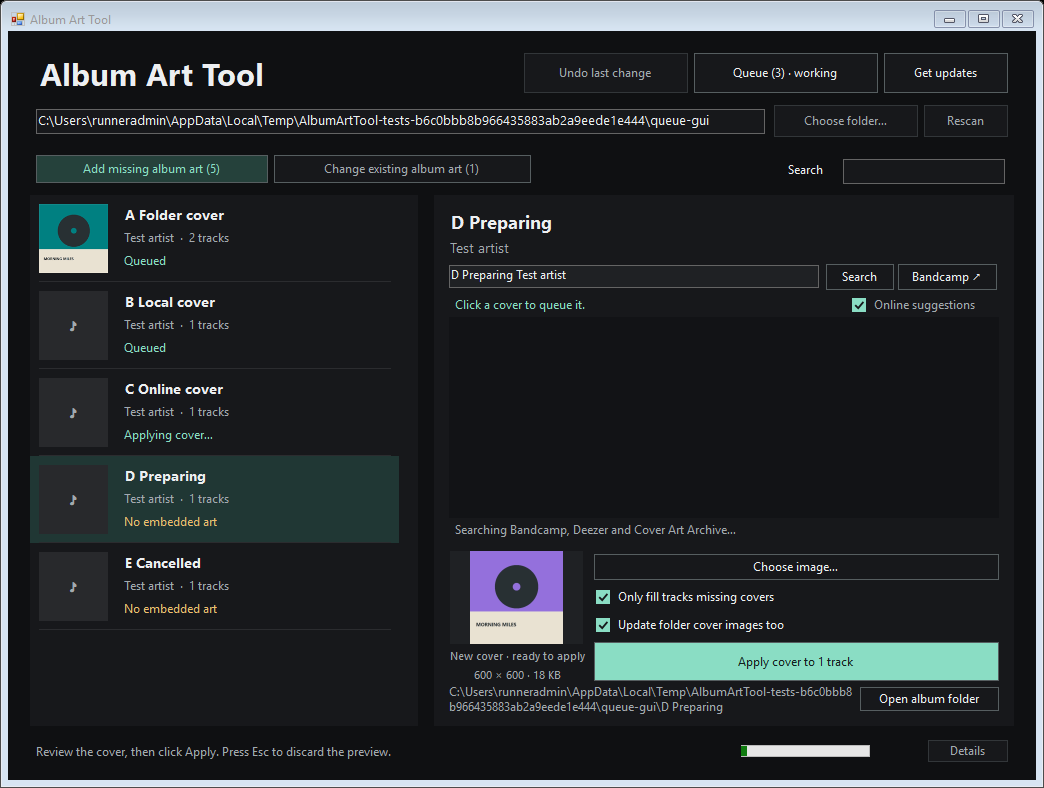
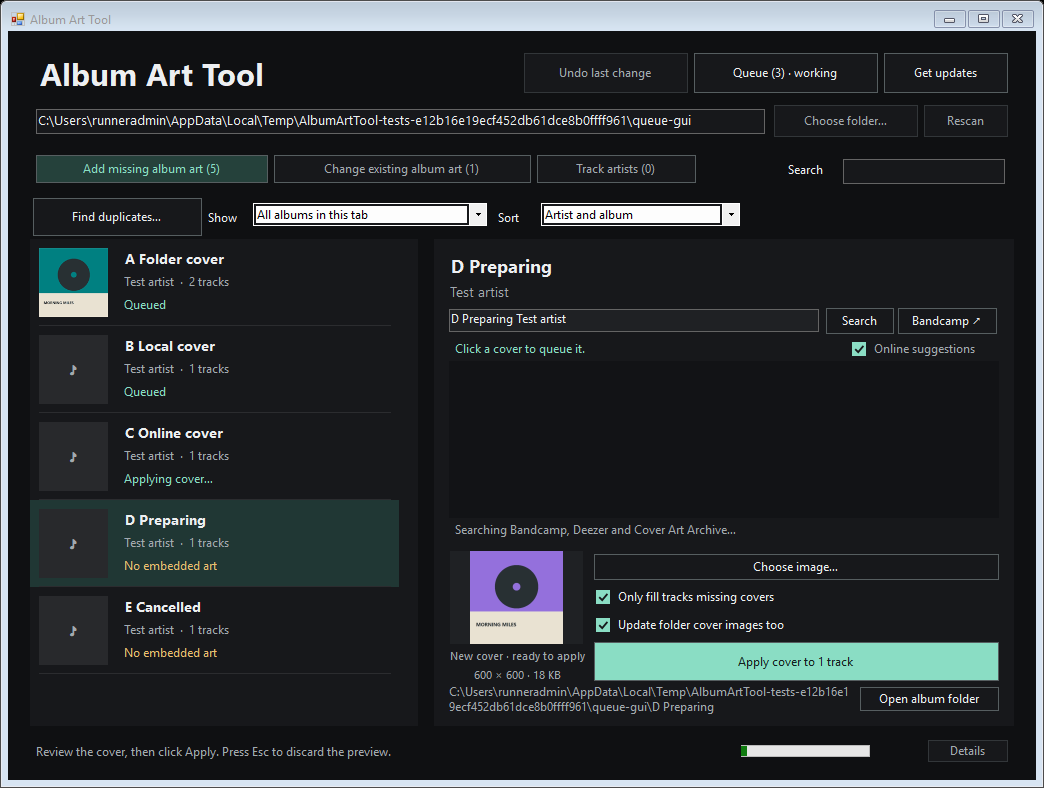
[release] Publish v1.4.0 with duplicate scans and artist cleanup

diff --git a/src/AlbumArtTool/DuplicateWindow.cs b/src/AlbumArtTool/DuplicateWindow.cs
@@ -14,6 +14,7 @@ namespace AlbumArtTool
     internal sealed class DuplicateWindow : Form
     {
         private readonly Album[] albums;
+        private readonly Func<Album[]> currentAlbums;
         private readonly TreeView matches = new TreeView();
         private readonly Label message = new Label();
         private readonly ProgressBar progress = new ProgressBar();
@@ -22,9 +23,9 @@ namespace AlbumArtTool
         internal DuplicateResult Result { get; private set; }
         internal bool IsScanning { get; private set; }
 
-        internal DuplicateWindow(Album[] snapshot)
+        internal DuplicateWindow(Album[] snapshot, Func<Album[]> latest = null)
         {
-            albums = snapshot;
+            albums = snapshot; currentAlbums = latest;
             Text = "Find duplicates"; BackColor = MainForm.Surface; ForeColor = MainForm.Ink; Font = new Font("Segoe UI", 10);
             AutoScaleMode = AutoScaleMode.Dpi; ClientSize = new Size(960, 570); MinimumSize = new Size(720, 460); StartPosition = FormStartPosition.CenterParent;
             var layout = new TableLayoutPanel { Dock = DockStyle.Fill, ColumnCount = 1, RowCount = 5, Padding = new Padding(16) };
@@ -64,11 +65,12 @@ namespace AlbumArtTool
             });
             try
             {
-                Result = await Task.Run(() => new DuplicateScanner().Scan(albums, token, reporter), token);
+                var snapshot = currentAlbums == null ? albums : currentAlbums();
+                Result = await Task.Run(() => new DuplicateScanner().Scan(snapshot, token, reporter), token);
                 if (IsDisposed) return;
                 ShowMatches();
-                message.Text = Result.Songs.Count(g => g.Confirmed) + " confirmed song groups · " + Result.Songs.Count(g => !g.Confirmed) +
-                    " possible song groups · " + Result.Albums.Count + " album groups" + (Result.Issues.Count > 0 ? " · " + Result.Issues.Count + " files skipped (see below)" : "");
+                message.Text = "Song groups: " + Result.Songs.Count(g => g.Confirmed) + " confirmed, " + Result.Songs.Count(g => !g.Confirmed) +
+                    " possible · Album groups: " + Result.Albums.Count + (Result.Issues.Count > 0 ? " · " + Result.Issues.Count + " files skipped (see below)" : "");
                 save.Enabled = true;
             }
             catch (OperationCanceledException) { if (!IsDisposed) message.Text = "Duplicate scan stopped. Run it again to compare the whole snapshot."; }

diff --git a/src/AlbumArtTool/MainForm.cs b/src/AlbumArtTool/MainForm.cs
@@ -76,7 +76,7 @@ namespace AlbumArtTool
             search.AccessibleName = "Search albums, artists or folders";
             BuildLayout();
             albums.WorkStatus = album => queuedAlbums.Contains(album.Key) ? (currentJob?.Album.Key == album.Key ? (currentJob.Artist == null ? "Applying cover…" : "Updating artists…") : "Queued") :
-                showingArtists ? (album.ArtistChangeCount > 0 ? album.ArtistChangeCount + " tracks with artist changes" : "No artist changes suggested") : null;
+                showingArtists ? (album.ArtistChangeCount > 0 ? album.ArtistChangeCount + (album.ArtistChangeCount == 1 ? " track with artist changes" : " tracks with artist changes") : "No artist changes suggested") : null;
             queueButton.Click += (s, e) => ShowQueue();
             getUpdates.Click += async (s, e) => await GetUpdatesAsync();
             browse.Click += async (s, e) =>

diff --git a/src/AlbumArtTool/MainForm.LibraryTools.cs b/src/AlbumArtTool/MainForm.LibraryTools.cs
@@ -117,9 +117,11 @@ namespace AlbumArtTool
         {
             if (duplicatesWindow != null && !duplicatesWindow.IsDisposed) { duplicatesWindow.Activate(); return; }
             if (busy || library.Albums.Count == 0) return;
-            duplicatesWindow = new DuplicateWindow(library.Albums.ToArray());
-            duplicatesWindow.Show(this);
-            await duplicatesWindow.ScanAsync();
+            var window = new DuplicateWindow(library.Albums.ToArray(), () => library.Albums.ToArray());
+            duplicatesWindow = window;
+            window.FormClosed += (s, e) => { if (duplicatesWindow == window) duplicatesWindow = null; };
+            window.Show(this);
+            await window.ScanAsync();
         }
     }
 }

diff --git a/README.md b/README.md
@@ -38,9 +38,11 @@ The suggestion uses a specific tagged album artist first, or a consistent lead a
 
 Artist jobs share the artwork queue, freeze the selected album/name at enqueue time, and use the same full-file backups, stale-file protection and **Undo last change**. Already-correct tracks are skipped. Failed writes are listed in Details. Artist cleanup does not rename or move files/folders. The cleanup filter removes an album once its artist fields match.
 
+[Track artist cleanup preview](docs/track-artists.png)
+
 ## Find duplicate songs and albums
 
-After scanning a music folder, click **Find duplicates**. A separate window scans the successfully read tracks in that folder tree, with a progress bar, percentage, checked/total counter and Stop button. Album browsing remains available. **Open selected folder** takes you to a result's location, and **Save report** exports a CSV with paths and the evidence for each match. Start a new scan from the main window after rescanning the library to include newly added music.
+After scanning a music folder, click **Find duplicates**. A separate window scans the successfully read tracks in that folder tree, with a progress bar, percentage, checked/total counter and Stop button. Album browsing remains available. **Open selected folder** takes you to a result's location, and **Save report** exports a CSV with paths and the evidence for each match. Rescan the main library to include newly added music, then click Scan again in the duplicate window.
 
 - **Confirmed song copies** have identical SHA-256 hashes of the entire file, or identical encoded MP3/FLAC audio data. MP3 tag blocks and FLAC metadata/artwork blocks are excluded from the audio comparison. Hover over a match to see which test confirmed it.
 - **Confirmed album copies** have the same complete set of verified song contents in different folders. A folder containing only part of an album is not labeled a complete copy. Repeated tracks count separately when comparing album contents.
@@ -48,7 +50,9 @@ After scanning a music folder, click **Find duplicates**. A separate window scan
 
 The scanner only reads music. It does **not** delete, move or select copies for removal. Repeated music on a compilation can be an intentional duplicate. Other codecs get whole-file verification and metadata comparisons; they do not get a claim of identical audio across retagging or re-encoding. MP3 and FLAC audio checks compare encoded data, not perceptual fingerprints, so a re-encode can appear only as a possible match. Missing, linked or changed files are skipped with an explanation. Backups and temporary editor files remain excluded.
 
-The first pass uses small audio samples and file sizes to find candidates; full hashes are then calculated for candidate files, rather than reading every complete song by default. The window uses a snapshot of the main library scan. If you change tags or covers while it is working, changed files are skipped; rescan the library and reopen the duplicate scanner to get current results. App installation waits for an active duplicate scan before restarting.
+The first pass uses small audio samples and file sizes to find candidates; full hashes are then calculated for candidate files, rather than reading every complete song by default. Each run uses a snapshot of the main library scan. If you change tags or covers while it is working, changed files are skipped; rescan the library and click Scan again to get current results. App installation waits for an active duplicate scan before restarting.
+
+[Duplicate scanner preview](docs/duplicates.png)
 
 ## App updates
 
